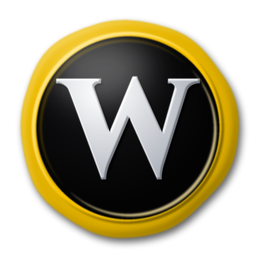
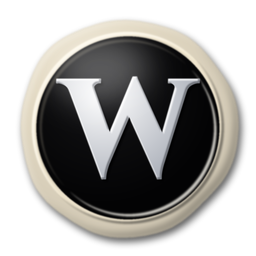
Roles: element powers instead of colour Wizards; elements in Roleplay; test-user command
- Master roles renamed: Power of Water, Fire, Air, Earth, the Jester, and
  Sight (was the Watcher); Joker points are Jester points (en, de)
- Basic + master pairs read as one name: "Fire Thief", "Dieb des Feuers"
  (src/modes/roles/role-names.ts), over the head, in the list, log and room
- Roleplay names its suits as elements like every mode; the power texts and
  announcements follow
- Air seals: Carlos's cream-rimmed W set, wax to gold
- npm run test-user -- <name> new|wood|copper|masters: a confirmed local test
  account at a stage of the role unlocks (local only)

Changed region(s): [[0.0625, 0.0625, 0.9375, 0.9375]]

diff --git a/src/i18n/de.ts b/src/i18n/de.ts
@@ -176,7 +176,7 @@ export const de: Record<MessageKey, string> = {
   "roles.help.intro": "Jeder Zauberer wählt eine Rolle für die ganze Partie. Die Kraft einer Rolle gehört zu einer Zahlenkarte und wirkt nur, wenn diese Karte in der angespielten Farbe oder in Trumpf gespielt wird, außer die Rolle sagt etwas anderes. Zauberer und Narren werden von der Kraft einer Rolle nie berührt. Punkte, die eine Rolle einem Spieler abnimmt, sind nie mehr, als er hat; bei 0 oder weniger wird nichts genommen.",
   "roles.master.help.button": "Die Meisterrollen: was jede kann",
   "roles.master.help.title": "Die Meisterrollen",
-  "roles.master.help.intro": "Die Meisterrollen haben keine eigene Karte. Die Farbzauberer verändern jeder das Spiel für eine Farbe und bekommen Punkte extra für einen Stich, den sie mit dem Zauberer ihrer Farbe gewinnen; der Joker beugt die Spielregeln. Du spielst eine Rolle, eine Grund- oder eine Meisterrolle. Zurzeit sind alle Meisterrollen zum Ausprobieren offen; später müssen sie verdient werden.",
+  "roles.master.help.intro": "Die Meisterrollen haben keine eigene Karte. Die Kräfte der vier Elemente verändern jede das Spiel für ein Element und bekommen Punkte extra für einen Stich, den sie mit dem Zauberer ihres Elements gewinnen; die Kraft des Narren beugt die Spielregeln; die Kraft der Sicht erspäht Zauberer und Narren. In einem Raum mit Grund- + Meisterrolle spielst du je eine: einen Dieb des Feuers, einen Fischer des Wassers. Verdient werden sie mit deinen Siegeln.",
   "role.thief": "Dieb",
   "role.thief.power": "Spiel deine 1 und tausche sie gegen die Karte direkt davor; als Trumpf gegen eine beliebige Karte davor. Nimm diesem Spieler 10 Punkte ab.",
   "role.servant": "Diener",
@@ -200,19 +200,25 @@ export const de: Record<MessageKey, string> = {
   "role.prophet": "Prophetin",
   "role.prophet.power": "Spiel deine 12 in der angespielten Farbe oder als Trumpf, oder in jeder Farbe nach einem Zauberer als erster Karte, und entscheide: Senke deine Vorhersage um 1 oder behalte sie. Gesenkt sehen alle sofort deine neue Vorhersage, und die 12 bringt nichts weiter. Behalten bekommst du 5 Punkte, wenn deine 12 den Stich gewinnt. Unter die schon gewonnenen Stiche kannst du nicht senken.",
   "role.king": "König",
-  "role.king.power": "Deine 13 hat zwei Gesichter. Als Trumpf gespielt bringt sie den Königsfrieden: Keine andere Rollenkraft wirkt in diesem Stich. Was schon geschah, wird rückgängig gemacht: Diebstähle und Tausche gehen mit ihren Punkten zurück, und am Ende des Stichs passiert nichts. Die Farbzauberer werden nicht gestoppt. Gewinnt deine Trumpf-13 dann den Stich, zahlt dir jeder andere Spieler 5 Punkte Tribut, nie mehr, als er hat; der Priester zahlt keinen, und keine Rüstung blockt ihn. In der angespielten Farbe gespielt kassierst du die Königssteuer, wenn deine eigene 13 den Stich gewinnt: Jede andere Karte darin, die ihr Siegel zeigt, zahlt dir 10 Punkte, nie mehr, als ihr Spieler hat. Der Priester zahlt keine Steuer, und die Rüstung eines Schmieds blockt sie; dann zahlst du dem Schmied 5.",
-  "role.blueWizard": "Blauer Zauberer",
-  "role.blueWizard.power": "Keine eigene Karte: Du siehst, wie viele blaue Karten jeder andere Spieler hält. Ihre Karten erscheinen dir blau, vorne und hinten, aber nie welche Karte oder ihre Zahl; in einer Blindrunde auch deine eigene, wenn sie blau ist. Zauberer und Narren sind nie blau. Gewinne einen Stich mit dem blauen Zauberer für 20 Punkte mehr.",
-  "role.greenWizard": "Grüner Zauberer",
-  "role.greenWizard.power": "Keine eigene Karte: Jede grüne Karte, die du hältst, zählt gegen andere grüne Karten 3 höher, eine 7 ist also eine 10 und eine 12 schlägt eine 13. Eine grüne Karte, die nur gleichzieht, verliert: deine 7 verliert gegen eine 10. Trümpfe und Zauberer schlagen Grün weiterhin. Gewinne einen Stich mit dem grünen Zauberer für 10 Punkte mehr.",
-  "role.yellowWizard": "Gelber Zauberer",
-  "role.yellowWizard.power": "Keine eigene Karte. Hast du keine Karte der angespielten Farbe, spiele eine gelbe Karte, die höher ist als die erste Karte des Stichs, und Gelb wird die angespielte Farbe: Die Karten vor deiner bedienen sie nicht mehr, und die Spieler nach dir müssen Gelb bedienen. Eine gelbe 6 dreht eine rote 5. Nicht, wenn Gelb Trumpf ist, und nicht, wenn ein Roter Zauberer eine rote Farbe schon geschützt hat. Gewinne einen Stich mit dem gelben Zauberer für 10 Punkte mehr.",
-  "role.redWizard": "Roter Zauberer",
-  "role.redWizard.power": "Keine eigene Karte. Ist Rot die angespielte Farbe, egal von wem, und du spielst eine rote Karte, zählen in diesem Stich keine Trümpfe, für niemanden: Deine rote Karte kann nicht übertrumpft werden, eine höhere rote Karte oder ein Zauberer schlägt sie aber weiterhin. Liegt deine rote Karte, kann ein Gelber Zauberer die Farbe nicht mehr drehen; hat einer sie gedreht, bevor du spielst, gibt es keinen Schutz. Gewinne einen Stich mit dem roten Zauberer für 20 Punkte mehr.",
-  "role.joker": "Joker",
-  "role.joker.power": "Keine eigene Karte, aber Joker-Punkte: Je 3 gewonnene Stiche, ob hintereinander oder nicht und über Runden hinweg, geben einen Punkt, bis zu 3. Einen Narren zu spielen zählt wie ein gewonnener Stich, egal wer gewinnt. Stiche, die du mit 3 Punkten gewinnst, zählen nicht. Mit einem Punkt musst du nicht bedienen, nicht einmal Trumpf: Hast du die angespielte Farbe, gibst du einen Punkt aus und spielst jede Karte, stichst ein oder wirfst eine andere Farbe ab. Der Stich, in dem du ihn ausgibst, zählt nicht für den nächsten Punkt. Wer gewinnt, entscheidet sich wie immer, also kann eine fremde Farbe, die kein Trumpf ist, nicht gewinnen.",
-  "role.watcher": "Wächter",
+  "role.king.power": "Deine 13 hat zwei Gesichter. Als Trumpf gespielt bringt sie den Königsfrieden: Keine andere Rollenkraft wirkt in diesem Stich. Was schon geschah, wird rückgängig gemacht: Diebstähle und Tausche gehen mit ihren Punkten zurück, und am Ende des Stichs passiert nichts. Die Meisterkräfte werden nicht gestoppt. Gewinnt deine Trumpf-13 dann den Stich, zahlt dir jeder andere Spieler 5 Punkte Tribut, nie mehr, als er hat; der Priester zahlt keinen, und keine Rüstung blockt ihn. In der angespielten Farbe gespielt kassierst du die Königssteuer, wenn deine eigene 13 den Stich gewinnt: Jede andere Karte darin, die ihr Siegel zeigt, zahlt dir 10 Punkte, nie mehr, als ihr Spieler hat. Der Priester zahlt keine Steuer, und die Rüstung eines Schmieds blockt sie; dann zahlst du dem Schmied 5.",
+  "role.blueWizard": "Kraft des Wassers",
+  "role.blueWizard.power": "Keine eigene Karte: Du siehst, wie viele Wasserkarten jeder andere Spieler hält. Ihre Karten erscheinen dir blau, vorne und hinten, aber nie welche Karte oder ihre Zahl; in einer Blindrunde auch deine eigene, wenn sie Wasser ist. Zauberer und Narren sind nie Wasser. Gewinne einen Stich mit dem Wasserzauberer für 20 Punkte mehr.",
+  "role.greenWizard": "Kraft der Erde",
+  "role.greenWizard.power": "Keine eigene Karte: Jede Erdkarte, die du hältst, zählt gegen andere Erdkarten 3 höher, eine 7 ist also eine 10 und eine 12 schlägt eine 13. Eine Erdkarte, die nur gleichzieht, verliert: deine 7 verliert gegen eine 10. Trümpfe und Zauberer schlagen Erde weiterhin. Gewinne einen Stich mit dem Erdzauberer für 10 Punkte mehr.",
+  "role.yellowWizard": "Kraft der Luft",
+  "role.yellowWizard.power": "Keine eigene Karte. Hast du keine Karte der angespielten Farbe, spiele eine Luftkarte, die höher ist als die erste Karte des Stichs, und Luft wird die angespielte Farbe: Die Karten vor deiner bedienen sie nicht mehr, und die Spieler nach dir müssen Luft bedienen. Eine Luft-6 dreht eine Feuer-5. Nicht, wenn Luft Trumpf ist, und nicht, wenn die Kraft des Feuers eine Feuerfarbe schon geschützt hat. Gewinne einen Stich mit dem Luftzauberer für 10 Punkte mehr.",
+  "role.redWizard": "Kraft des Feuers",
+  "role.redWizard.power": "Keine eigene Karte. Ist Feuer die angespielte Farbe, egal von wem, und du spielst eine Feuerkarte, zählen in diesem Stich keine Trümpfe, für niemanden: Deine Feuerkarte kann nicht übertrumpft werden, eine höhere Feuerkarte oder ein Zauberer schlägt sie aber weiterhin. Liegt deine Feuerkarte, kann die Kraft der Luft die Farbe nicht mehr drehen; hat sie sie gedreht, bevor du spielst, gibt es keinen Schutz. Gewinne einen Stich mit dem Feuerzauberer für 20 Punkte mehr.",
+  "role.joker": "Kraft des Narren",
+  "role.joker.power": "Keine eigene Karte, aber Narrenpunkte: Je 3 gewonnene Stiche, ob hintereinander oder nicht und über Runden hinweg, geben einen Punkt, bis zu 3. Einen Narren zu spielen zählt wie ein gewonnener Stich, egal wer gewinnt. Stiche, die du mit 3 Punkten gewinnst, zählen nicht. Mit einem Punkt musst du nicht bedienen, nicht einmal Trumpf: Hast du die angespielte Farbe, gibst du einen Punkt aus und spielst jede Karte, stichst ein oder wirfst eine andere Farbe ab. Der Stich, in dem du ihn ausgibst, zählt nicht für den nächsten Punkt. Wer gewinnt, entscheidet sich wie immer, also kann eine fremde Farbe, die kein Trumpf ist, nicht gewinnen.",
+  "role.watcher": "Kraft der Sicht",
   "role.watcher.power": "Keine eigene Karte, frei für alle, denen die Meisterrollen offenstehen. Vor jeder Runde werden 2 der 4 Zauberer und 2 der 4 Narren zufällig beobachtet. Du siehst, wie viele davon jeder andere Spieler hält: so viele seiner Karten leuchten für dich violett, doch nie welche Karte, und nicht ob Zauberer oder Narr. Beobachtete Karten, die im Stapel bleiben oder als Trumpf aufgedeckt werden, zeigen sich nirgends: manche Runden siehst du alle vier, manche weniger, manche keine. In einer Blindrunde leuchtet auch deine eigene Karte violett, wenn sie beobachtet wird.",
+  "role.pair.blueWizard": "{role} des Wassers",
+  "role.pair.greenWizard": "{role} der Erde",
+  "role.pair.yellowWizard": "{role} der Luft",
+  "role.pair.redWizard": "{role} des Feuers",
+  "role.pair.joker": "{role} des Narren",
+  "role.pair.watcher": "{role} der Sicht",
   "role.shepherd": "Hirte",
   "role.shepherd.power": "Spiel deine 5, in jeder Farbe: Wer den Stich gewinnt, bekommt eines deiner 3 Schafe. Gewinnst du einen Stich mit deiner 5, zahlen dir alle mit deinen Schafen 20 Punkte pro Schaf, und deine Schafe kommen heim.",
   "room.bots": "NPCs",
@@ -242,7 +248,7 @@ export const de: Record<MessageKey, string> = {
   "roles.locked.joker": "Gesperrt: braucht jedes Grundsiegel aus Kupfer",
   "roles.locked.watcher": "Gesperrt: öffnet sich, wenn jedes Grundsiegel aus Holz ist",
   "seals.locked": "Gesperrt",
-  "seals.help.locks": "Du beginnst mit den ersten vier Grundrollen. Jedes Grundsiegel, das du auf Holz bringst, öffnet die nächste Grundrolle. Ist jedes Grundsiegel aus Holz, können sich die Meisterrollen öffnen: jeder Farbzauberer, wenn du sein Element als dein starkes Element meisterst (dann bekommst du zufällig ein neues), und der Joker, wenn jedes Grundsiegel aus Kupfer ist. Der Wächter ist frei: offen, sobald jedes Grundsiegel aus Holz ist.",
+  "seals.help.locks": "Du beginnst mit den ersten vier Grundrollen. Jedes Grundsiegel, das du auf Holz bringst, öffnet die nächste Grundrolle. Ist jedes Grundsiegel aus Holz, können sich die Meisterrollen öffnen: die Kraft der Sicht sofort, die Kraft eines Elements, wenn du es als dein starkes Element meisterst (dann bekommst du zufällig ein neues), und die Kraft des Narren, wenn jedes Grundsiegel aus Kupfer ist.",
   "seals.help.table": "Am Tisch zeigt dein Siegel deine Stufe, wann immer die Kraft deiner Rolle wirkt.",
   "room.rounds": "Runden",
   "room.fullGame": "Ganze Partie ({count})",
@@ -405,10 +411,6 @@ export const de: Record<MessageKey, string> = {
   "system.installOther": "Zum Installieren: Öffne das Browsermenü (⋮), dann App installieren oder Zum Startbildschirm hinzufügen.",
 
   // Nur Roles-Modus: die Farben behalten ihre Namen (Carlos).
-  "roles.suit.Blue": "Blau",
-  "roles.suit.Red": "Rot",
-  "roles.suit.Yellow": "Gelb",
-  "roles.suit.Green": "Grün",
   "suit.Blue": "Wasser",
   "suit.Red": "Feuer",
   "suit.Yellow": "Luft",
@@ -447,7 +449,7 @@ export const de: Record<MessageKey, string> = {
   "game.seeds": "{count} Samen",
   "game.sheep": "{count} Schafe",
   "game.armor": "{count} Rüstung",
-  "game.jokerPoints": "{count} Joker-Punkte, {tricks} von {of} Stichen zum nächsten",
+  "game.jokerPoints": "{count} Narrenpunkte, {tricks} von {of} Stichen zum nächsten",
   "game.timeout.1": "Die Zeit wartet auf niemanden.",
   "game.timeout.2": "Die Schicksalsgöttinnen haben für dich gewählt.",
   "game.timeout.3": "Die Ahnen haben durch dich gezogen.",
@@ -513,10 +515,10 @@ export const de: Record<MessageKey, string> = {
   "ann.predictsOne": "{name} sagt 1 Stich an",
   "ann.predictsMany": "{name} sagt {count} Stiche an",
   "ann.youChose": "Du wählst {suit} als Trumpf.",
-  "ann.youTurnLead": "Du drehst die Farbe auf Gelb.",
-  "ann.turnsLead": "{name}, der Gelbe Zauberer, dreht die Farbe auf Gelb.",
-  "ann.youRedShield": "Du spielst Rot als Roter Zauberer: keine Trümpfe in diesem Stich.",
-  "ann.redShield": "{name}, der Rote Zauberer, spielt Rot: keine Trümpfe in diesem Stich.",
+  "ann.youTurnLead": "Du drehst die Farbe auf Luft.",
+  "ann.turnsLead": "{name} dreht mit der Kraft der Luft die Farbe auf Luft.",
+  "ann.youRedShield": "Du spielst Feuer mit der Kraft des Feuers: keine Trümpfe in diesem Stich.",
+  "ann.redShield": "{name} spielt Feuer mit der Kraft des Feuers: keine Trümpfe in diesem Stich.",
   "ann.chose": "{name} wählt {suit} als Trumpf.",
   "ann.youWinTrick": "Du gewinnst den Stich",
   "ann.winsTrick": "{name} gewinnt den Stich",
@@ -723,8 +725,8 @@ export const de: Record<MessageKey, string> = {
   "ann.yourTax": "👑 Als König kassierst du die Steuer: {trades}.",
   "ann.taxPriest": "Der Priester zahlt keine Steuer.",
   "ann.taxLabel": "Königssteuer",
-  "ann.playsFree": "🃏 {name}, der Joker, pfeift auf die Farbe!",
-  "ann.youPlayFree": "🃏 Als Joker pfeifst du auf die Farbe.",
+  "ann.playsFree": "🃏 {name} pfeift mit der Kraft des Narren auf die Farbe!",
+  "ann.youPlayFree": "🃏 Mit der Kraft des Narren pfeifst du auf die Farbe.",
   "log.playsFree": "🃏 pfeift auf die Farbe",
   "ann.tribute": "👑 {name}, der König, gewinnt in Frieden und erhält Tribut: {trades}.",
   "ann.yourTribute": "👑 Als König gewinnst du in Frieden und erhältst Tribut: {trades}.",

diff --git a/src/i18n/en.ts b/src/i18n/en.ts
@@ -175,7 +175,7 @@ export const en = {
   "roles.help.intro": "Every wizard chooses a role for the whole game. A role's power belongs to one number card, and it only works when that card is played in the lead suit or in trumps, unless the role says otherwise. Wizards and Jesters are never affected by a role's power. Points a role takes from a player are never more than that player has, so nothing is taken from 0 or below.",
   "roles.master.help.button": "The Master Roles: what each one does",
   "roles.master.help.title": "The Master Roles",
-  "roles.master.help.intro": "The master roles have no card of their own. The colour Wizards each change the game for one colour, and each earns points more for a trick won with the Wizard of its colour; the Joker bends the rules of play. You play one role, a basic or a master one. For now every master role is open to try; later they will have to be earned.",
+  "roles.master.help.intro": "The master roles have no card of their own. The four elements' powers each change the game for one element, and each earns points more for a trick won with the Wizard of its element; the Power of the Jester bends the rules of play; the Power of Sight spots Wizards and Jesters. In a basic + master room you play one of each: a Fire Thief, a Water Fisher. They are earned with your seals.",
   "role.thief": "Thief",
   "role.thief.power": "Play your 1 and swap it for the card played just before it; as a trump, for any card played before it. Take 10 points from that player.",
   "role.servant": "Servant",
@@ -199,19 +199,25 @@ export const en = {
   "role.prophet": "Prophet",
   "role.prophet.power": "Play your 12 in the suit led or as a trump, or in any suit after a Wizard lead, and choose: lower your prediction by 1 or keep it. Lowered, everyone sees your new prediction at once, and the 12 brings nothing more. Kept, you get 5 points if your 12 wins the trick. You cannot lower below the tricks you have already won.",
   "role.king": "King",
-  "role.king.power": "Your 13 has two faces. Played as a trump, it brings the King's peace: no other role's power works in that trick. What already happened is undone, steals and swaps go back with their points, and nothing happens at the end of the trick. The colour Wizards are not stopped. If your trump 13 then wins the trick, every other player pays you 5 points as tribute, never more than they have; the Priest pays none, and no armour blocks it. Played in the suit led, if your own 13 wins the trick, you collect the King's tax: every other card in it showing its seal pays you 10 points, never more than its player has. The Priest pays no tax, and a Smith's armour blocks it, and then you pay the Smith 5.",
-  "role.blueWizard": "Blue Wizard",
-  "role.blueWizard.power": "No card of your own: you see how many blue cards every other player holds. Their cards show blue to you, front and back, though never which card or its number; in a blind round, so does your own if it is blue. Wizards and Jesters are never blue. Win a trick with the blue Wizard for 20 points more.",
-  "role.greenWizard": "Green Wizard",
-  "role.greenWizard.power": "No card of your own: every green card you hold counts 3 higher against other green cards, so a 7 is a 10 and a 12 beats a 13. A green card that only draws level loses: your 7 loses to a 10. Trumps and Wizards still beat green. Win a trick with the green Wizard for 10 points more.",
-  "role.yellowWizard": "Yellow Wizard",
-  "role.yellowWizard.power": "No card of your own. When you have no card of the suit led, play a yellow card higher than the first card of the trick and yellow becomes the suit led: the cards before yours no longer follow it, and the players after you must follow yellow. A 6 yellow turns a 5 red. Not when yellow is trumps, nor once a Red Wizard has shielded a red lead. Win a trick with the yellow Wizard for 10 points more.",
-  "role.redWizard": "Red Wizard",
-  "role.redWizard.power": "No card of your own. When red is the suit led, by anyone, and you play a red card, no trumps count in that trick, for anyone: your red card cannot be trumped, though a higher red card or a Wizard still beats it. Once your red card is down, a Yellow Wizard can no longer turn the lead; if one turned it before you played, there is no shield. Win a trick with the red Wizard for 20 points more.",
-  "role.joker": "Joker",
-  "role.joker.power": "No card of your own, but Joker points: every 3 tricks you win, in a row or not and across rounds, give a point, up to 3. Playing a Jester counts as a trick won, whoever wins. Tricks won while you hold 3 do not count. With a point you need not follow suit, not even trump: holding the suit led, spend a point to play any card, trump in or throw away another suit. The trick you spend it in does not count towards the next point. Who wins is decided as ever, so a card of another suit that is not a trump cannot win.",
-  "role.watcher": "Watcher",
+  "role.king.power": "Your 13 has two faces. Played as a trump, it brings the King's peace: no other role's power works in that trick. What already happened is undone, steals and swaps go back with their points, and nothing happens at the end of the trick. The master powers are not stopped. If your trump 13 then wins the trick, every other player pays you 5 points as tribute, never more than they have; the Priest pays none, and no armour blocks it. Played in the suit led, if your own 13 wins the trick, you collect the King's tax: every other card in it showing its seal pays you 10 points, never more than its player has. The Priest pays no tax, and a Smith's armour blocks it, and then you pay the Smith 5.",
+  "role.blueWizard": "Power of Water",
+  "role.blueWizard.power": "No card of your own: you see how many water cards every other player holds. Their cards show blue to you, front and back, though never which card or its number; in a blind round, so does your own if it is water. Wizards and Jesters are never water. Win a trick with the Water Wizard for 20 points more.",
+  "role.greenWizard": "Power of Earth",
+  "role.greenWizard.power": "No card of your own: every earth card you hold counts 3 higher against other earth cards, so a 7 is a 10 and a 12 beats a 13. An earth card that only draws level loses: your 7 loses to a 10. Trumps and Wizards still beat earth. Win a trick with the Earth Wizard for 10 points more.",
+  "role.yellowWizard": "Power of Air",
+  "role.yellowWizard.power": "No card of your own. When you have no card of the suit led, play an air card higher than the first card of the trick and air becomes the suit led: the cards before yours no longer follow it, and the players after you must follow air. A 6 of air turns a 5 of fire. Not when air is trumps, nor once the Power of Fire has shielded a fire lead. Win a trick with the Air Wizard for 10 points more.",
+  "role.redWizard": "Power of Fire",
+  "role.redWizard.power": "No card of your own. When fire is the suit led, by anyone, and you play a fire card, no trumps count in that trick, for anyone: your fire card cannot be trumped, though a higher fire card or a Wizard still beats it. Once your fire card is down, the Power of Air can no longer turn the lead; if it turned it before you played, there is no shield. Win a trick with the Fire Wizard for 20 points more.",
+  "role.joker": "Power of the Jester",
+  "role.joker.power": "No card of your own, but Jester points: every 3 tricks you win, in a row or not and across rounds, give a point, up to 3. Playing a Jester counts as a trick won, whoever wins. Tricks won while you hold 3 do not count. With a point you need not follow suit, not even trump: holding the suit led, spend a point to play any card, trump in or throw away another suit. The trick you spend it in does not count towards the next point. Who wins is decided as ever, so a card of another suit that is not a trump cannot win.",
+  "role.watcher": "Power of Sight",
   "role.watcher.power": "No card of your own, free to everyone with the master roles open. Before each round is dealt, 2 of the 4 Wizards and 2 of the 4 Jesters are watched, picked at random. You see how many of them every other player holds: that many of their cards show purple to you, though never which card, nor whether Wizard or Jester. Watched cards left in the deck or turned up as trumps show nowhere, so some rounds you see all four, some fewer, some none. In a blind round, your own card shows purple too if it is watched.",
+  "role.pair.blueWizard": "Water {role}",
+  "role.pair.greenWizard": "Earth {role}",
+  "role.pair.yellowWizard": "Air {role}",
+  "role.pair.redWizard": "Fire {role}",
+  "role.pair.joker": "Jester {role}",
+  "role.pair.watcher": "Seeing {role}",
   "role.shepherd": "Shepherd",
   "role.shepherd.power": "Play your 5, in any suit: whoever wins the trick takes one of your 3 sheep. When you win a trick with your 5, everyone holding your sheep pays you 20 points per sheep, and your sheep come home.",
   "room.bots": "NPCs",
@@ -241,7 +247,7 @@ export const en = {
   "roles.locked.joker": "Locked: needs every basic seal at Copper",
   "roles.locked.watcher": "Locked: opens when every basic seal is Wood",
   "seals.locked": "Locked",
-  "seals.help.locks": "You start with the first four basic roles. Each basic seal you bring to Wood opens the next basic role. Once every basic seal is Wood, the master roles can open: each colour Wizard when you master its element as your strong element (then you get a new one at random), and the Joker when every basic seal is Copper. The Watcher is free: open as soon as every basic seal is Wood.",
+  "seals.help.locks": "You start with the first four basic roles. Each basic seal you bring to Wood opens the next basic role. Once every basic seal is Wood, the master roles can open: the Power of Sight at once, each element's power when you master that element as your strong element (then you get a new one at random), and the Power of the Jester when every basic seal is Copper.",
   "seals.help.table": "At the table, your seal shows your level whenever your role's power is used.",
   "room.rounds": "Rounds",
   "room.fullGame": "Full game ({count})",
@@ -404,11 +410,6 @@ export const en = {
   "system.installIos": "To install: tap Share, then Add to Home Screen.",
   "system.installOther": "To install: open the browser menu (⋮), then Install app or Add to Home screen.",
 
-  // Roles mode only: the suits keep their colour names (Carlos's).
-  "roles.suit.Blue": "Blue",
-  "roles.suit.Red": "Red",
-  "roles.suit.Yellow": "Yellow",
-  "roles.suit.Green": "Green",
   "suit.Blue": "Water",
   "suit.Red": "Fire",
   "suit.Yellow": "Air",
@@ -447,7 +448,7 @@ export const en = {
   "game.seeds": "{count} seeds",
   "game.sheep": "{count} sheep",
   "game.armor": "{count} armour",
-  "game.jokerPoints": "{count} Joker points, {tricks} of {of} tricks to the next",
+  "game.jokerPoints": "{count} Jester points, {tricks} of {of} tricks to the next",
   "game.timeout.1": "Time waits for no one.",
   "game.timeout.2": "The Fates have chosen for you.",
   "game.timeout.3": "The Ancestors have moved through you.",
@@ -513,10 +514,10 @@ export const en = {
   "ann.predictsOne": "{name} Predicts 1 Trick",
   "ann.predictsMany": "{name} Predicts {count} Tricks",
   "ann.youChose": "You chose {suit} as trumps.",
-  "ann.youTurnLead": "You turn the lead to Yellow.",
-  "ann.turnsLead": "{name} the Yellow Wizard turns the lead to Yellow.",
-  "ann.youRedShield": "You play red as the Red Wizard: no trumps in this trick.",
-  "ann.redShield": "{name} the Red Wizard plays red: no trumps in this trick.",
+  "ann.youTurnLead": "You turn the lead to Air.",
+  "ann.turnsLead": "{name}, with the Power of Air, turns the lead to Air.",
+  "ann.youRedShield": "You play fire with the Power of Fire: no trumps in this trick.",
+  "ann.redShield": "{name}, with the Power of Fire, plays fire: no trumps in this trick.",
   "ann.chose": "{name} chose {suit} as trumps.",
   "ann.youWinTrick": "You Win the Trick",
   "ann.winsTrick": "{name} Wins the Trick",
@@ -723,8 +724,8 @@ export const en = {
   "ann.yourTax": "👑 As the King, you collect the tax: {trades}.",
   "ann.taxPriest": "The Priest pays no tax.",
   "ann.taxLabel": "King's tax",
-  "ann.playsFree": "🃏 {name} the Joker ignores the suit!",
-  "ann.youPlayFree": "🃏 As the Joker, you ignore the suit.",
+  "ann.playsFree": "🃏 {name}, with the Power of the Jester, ignores the suit!",
+  "ann.youPlayFree": "🃏 With the Power of the Jester, you ignore the suit.",
   "log.playsFree": "🃏 ignores the suit",
   "ann.tribute": "👑 {name} the King wins in peace and is paid tribute: {trades}.",
   "ann.yourTribute": "👑 As the King, you win in peace and are paid tribute: {trades}.",

diff --git a/backend/src/db/testUser.ts b/backend/src/db/testUser.ts
@@ -1,0 +1,62 @@
+// Makes a local test account, confirmed and ready to sign in, at a chosen
+// stage of the Roles unlocks (modes/roles/roleLocks.ts). Run again to put an
+// existing test account back to a stage. Local only: never for live.
+//
+//   npm run test-user -- Merlin new       only the first 4 basic roles
+//   npm run test-user -- Morgana wood     every basic seal at Wood: the Watcher opens
+//   npm run test-user -- Vivien copper    every basic seal at Copper: the Joker too
+//   npm run test-user -- Nimue masters    every role open
+//
+// The password is pass1234 unless a third word gives another. The address is
+// <name>@test.local, which nobody reads. DB_PATH picks the database, as it
+// does for the server.
+import bcrypt from "bcryptjs";
+import db from "./database.js";
+import { UserService } from "../services/userService.js";
+import { playerStatsRepository } from "../game/wizard/services/playerStatsRepository.js";
+import { setRolesAllOpen } from "../game/wizard/modes/roles/roleAccess.js";
+import { rolesOfKind } from "../game/wizard/modes/roles/roles.js";
+import { SEAL_LEVELS } from "../game/wizard/modes/roles/sealLevels.js";
+
+const STAGES = ["new", "wood", "copper", "masters"] as const;
+type Stage = (typeof STAGES)[number];
+
+const [name, stageWord = "new", password = "pass1234"] = process.argv.slice(2);
+const stage = STAGES.find((entry) => entry === stageWord);
+
+if (process.env.NODE_ENV === "production") {
+  console.log("Test accounts are for a local database only.");
+  process.exit(1);
+}
+
+if (!name || !stage) {
+  console.log(`npm run test-user -- <name> [${STAGES.join("|")}] [password]`);
+  process.exit(1);
+}
+
+function account(username: string): number {
+  const existing = UserService.getUserByUsername(username);
+  if (existing) return existing.id;
+  const user = UserService.createUser(username, bcrypt.hashSync(password!, 10), `${username.toLowerCase()}@test.local`);
+  playerStatsRepository.initializeForUser(user.id);
+  console.log(`Made ${username} <${user.email}>, password ${password}`);
+  return user.id;
+}
+
+// Every basic seal at the level's points; nothing else kept.
+function sealsAt(userId: number, level: "wood" | "copper" | null): void {
+  db.prepare("DELETE FROM role_progress WHERE user_id = ?").run(userId);
+  if (!level) return;
+  const games = SEAL_LEVELS.find((entry) => entry.id === level)!.at;
+  const insert = db.prepare("INSERT INTO role_progress (user_id, role, games, wins) VALUES (?, ?, ?, 0)");
+  for (const role of rolesOfKind("basic")) insert.run(userId, role.id, games);
+}
+
+const SEALS: Record<Stage, "wood" | "copper" | null> = { new: null, wood: "wood", copper: "copper", masters: null };
+
+const userId = account(name);
+UserService.markEmailVerified(userId);
+sealsAt(userId, SEALS[stage]);
+setRolesAllOpen(userId, stage === "masters");
+console.log(`${name}: ${stage}`);
+process.exit(0);

diff --git a/src/pages/Room.ts b/src/pages/Room.ts
@@ -1,4 +1,5 @@
 import { API_BASE } from "../services/api";
+import { rolesName } from "../modes/roles/role-names";
 import { fullRoundCount } from "../../backend/src/game/wizard/models/rounds";
 import { BOT_LEVELS, DEFAULT_BOT_LEVEL } from "../../backend/src/game/wizard/botLevels";
 import { t } from "../i18n";
@@ -27,7 +28,7 @@ import {
 } from "../services/auth";
 import { serverError, type ServerError } from "../i18n/server-error";
 import { gameModeBadge, gameModeName } from "../utils/game-mode";
-import { isRoleId, roleKind, rolesHeld, rolesOfKind, type RoleId, type RoleKind } from "../../backend/src/game/wizard/modes/roles/roles";
+import { isRoleId, roleKind, rolesOfKind, type RoleId, type RoleKind } from "../../backend/src/game/wizard/modes/roles/roles";
 import { openRolesHelp, rolesHelpButton } from "../modes/roles/roles-help";
 import { roleSlotsChoice } from "../modes/roles/role-slots-choice";
 import { loadRoleAccess, lockRoleOptions } from "../modes/roles/role-locks";
@@ -823,7 +824,7 @@ export async function renderRoomPage(
     const isRoles = mode === "roles";
     const wizards = (room?.players ?? []).map((player) => {
       const name = player.username === user.username ? greeting : displayName(player.username);
-      const roles = rolesHeld(player).map((role) => t(`role.${role}`)).join(" · ");
+      const roles = rolesName(player);
       return isRoles && roles ? `${name} (${roles})` : name;
     });
     const rows: StartSummaryRow[] = [

diff --git a/src/modes/roles/hud/role-announcements.ts b/src/modes/roles/hud/role-announcements.ts
@@ -1,5 +1,6 @@
 import type { PublicWizardGameState } from "../../../../backend/src/game/wizard/models/wizardGame";
-import { rolesHeld, type RoleAction } from "../../../../backend/src/game/wizard/modes/roles/roles";
+import { rolesName } from "../role-names";
+import type { RoleAction } from "../../../../backend/src/game/wizard/modes/roles/roles";
 import { playerOf, powerOn, rolePowerOn, rolesOfPlayers, type RoleOf } from "../../../../backend/src/game/wizard/modes/roles/rolePlay";
 import { trickRolesIn } from "../../../../backend/src/game/wizard/modes/roles/master/trickRoles";
 import { WizardRules } from "../../../../backend/src/game/wizard/services/wizardRules";
@@ -205,7 +206,7 @@ const roleOfIn = (state: PublicWizardGameState, username: string) =>
 // A player as the log names them in a Roles game: "Lúthien (Farmer)".
 function withRole(state: PublicWizardGameState, username: string): string {
   const player = state.players.find((entry) => entry.username === username);
-  const roles = player ? rolesHeld(player).map((role) => t(`role.${role}`)).join(" · ") : "";
+  const roles = player ? rolesName(player) : "";
   return roles ? `${announcedName(username)} (${roles})` : announcedName(username);
 }
 

diff --git a/src/modes/roles/role-names.ts b/src/modes/roles/role-names.ts
@@ -1,0 +1,24 @@
+import { roleKind, rolesHeld, type RoleId } from "../../../backend/src/game/wizard/modes/roles/roles";
+import { t } from "../../i18n";
+
+// Roles mode only. A player's roles as one name: "Thief", or with a master
+// power too (a basic + master game) the pair, "Fire Thief" ("Dieb des
+// Feuers"); an older game with a master as its one role, "Power of Fire".
+
+const PAIR_KEYS = {
+  blueWizard: "role.pair.blueWizard",
+  greenWizard: "role.pair.greenWizard",
+  yellowWizard: "role.pair.yellowWizard",
+  redWizard: "role.pair.redWizard",
+  joker: "role.pair.joker",
+  watcher: "role.pair.watcher",
+} as const;
+
+const pairKey = (role: RoleId) => (role in PAIR_KEYS ? PAIR_KEYS[role as keyof typeof PAIR_KEYS] : null);
+
+export function rolesName(player: { role?: RoleId | null; masterRole?: RoleId | null }): string {
+  const basic = player.role && roleKind(player.role) === "basic" ? player.role : null;
+  const key = player.masterRole ? pairKey(player.masterRole) : null;
+  if (basic && key) return t(key, { role: t(`role.${basic}`) });
+  return rolesHeld(player).map((role) => t(`role.${role}`)).join(" · ");
+}

diff --git a/src/visualizer/hud/announcements.ts b/src/visualizer/hud/announcements.ts
@@ -4,7 +4,6 @@ import type { PublicGamePlayer, PublicWizardGameState } from "../../../backend/s
 import type { Card, Suit } from "../../../backend/src/game/wizard/models/card";
 import { t } from "../../i18n";
 import { isSabotageGame } from "../../modes/sabotage/sabotage-game";
-import { isRolesDeck } from "../card-decks";
 import { choiceMessages } from "../../modes/roles/hud/choice-announcements";
 import {
   masterMessages,
@@ -53,9 +52,8 @@ export const announcedName = (username: string): string =>
 
 const nameOf = (username: string, local: string) => (username === local ? t("ann.you") : announcedName(username));
 
-// A Sabotage game names its suits as elements (modes/sabotage/hud/).
-// Elements, not colours; Roles mode (Carlos's) keeps the colours.
-export const suitName = (suit: Suit): string => (isRolesDeck() ? t(`roles.suit.${suit}`) : elementName(suit));
+// Every game names its suits as elements (modes/sabotage/hud/), Roleplay too.
+export const suitName = (suit: Suit): string => elementName(suit);
 
 export function cardName(card: Card): string {
   if (isSabotageGame()) return sabotageCardName(card);

diff --git a/src/visualizer/hud/player-list.ts b/src/visualizer/hud/player-list.ts
@@ -1,5 +1,5 @@
 import { displayName } from "../../utils/display-name";
-import { rolesHeld } from "../../../backend/src/game/wizard/modes/roles/roles";
+import { rolesName } from "../../modes/roles/role-names";
 import { seedCount } from "../../../backend/src/game/wizard/modes/roles/farmer";
 import { jokerCarried, jokerMarks } from "../../modes/roles/hud/joker-marks";
 import { sheepCount } from "../../../backend/src/game/wizard/modes/roles/shepherd";
@@ -226,7 +226,7 @@ export function createPlayerList(
               ? [spans[0]!, spans[1]!]
               : [document.createElement("span"), document.createElement("span")];
             // Roles mode: both roles in a basic + master game, "Duke · Joker".
-            role.textContent = `${rolesHeld(player).map((held) => t(`role.${held}`)).join(" · ")}:${marks}`;
+            role.textContent = `${rolesName(player)}:${marks}`;
             name.textContent = shortName(player.username);
             if (spans.length !== 2) caption.replaceChildren(role, name);
           } else {

diff --git a/src/modes/roles/role-labels.ts b/src/modes/roles/role-labels.ts
@@ -1,8 +1,7 @@
 import * as THREE from "three";
-import { rolesHeld } from "../../../backend/src/game/wizard/modes/roles/roles";
+import { rolesName } from "./role-names";
 import type { PublicWizardGameState } from "../../../backend/src/game/wizard/models/wizardGame";
 import type { SeatId } from "../../visualizer/player-characters";
-import { t } from "../../i18n";
 import { roleUses } from "./hud/role-announcements";
 
 // In a Roles game, each other player's role floats above their head as a word
@@ -184,7 +183,7 @@ export function createRoleLabels(options: RoleLabelOptions): RoleLabels {
 
         wanted.add(player.username);
         // Both roles in a basic + master game: "Duke · Joker".
-        const label = labelFor(player.username, rolesHeld(player).map((role) => t(`role.${role}`)).join(" · "));
+        const label = labelFor(player.username, rolesName(player));
 
         // World sizes, brought into the parent's own units.
         options.parent.getWorldScale(parentScale);

diff --git a/src/visualizer/card-decks.ts b/src/visualizer/card-decks.ts
@@ -128,7 +128,5 @@ export function setCardDeckMode(state: Pick<PublicWizardGameState, "options"> | 
   mode = isGameMode(wanted) ? wanted : "classic";
 }
 
-// Roles mode keeps the colour names (Carlos's; modes/roles/).
-export const isRolesDeck = (): boolean => mode === "roles";
 
 export const activeDeck = (): CardDeck => DECKS[mode];
